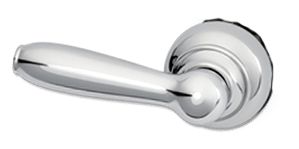
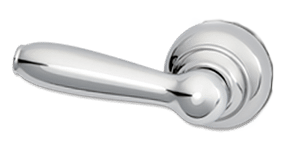
Joke toilet paper background. Cleaned up tHandle.png. Altered TpFooter grid. Deleted unused images.

Changed region(s): [[0.6622, 0.1074, 0.903, 0.4027], [0.8428, 0.5906, 0.9331, 0.7785], [0.903, 0.4027, 0.9331, 0.5101]]

diff --git a/src/pages/Home/Jokes.tsx b/src/pages/Home/Jokes.tsx
@@ -31,7 +31,7 @@ const flushTime: number = 1900; // milliseconds
 
 class Jokes extends React.Component<Props, Partial<JokesState>> {
 
-  private currentJoke: string = "Flush the toilet for a joke, if you dare";
+  private currentJoke: string[] = ["Flush the toilet for a joke, if you dare"];
   private badJokes: globalTypes.JokeList = allJokes;
 
   state: JokesState = {
@@ -47,8 +47,6 @@ class Jokes extends React.Component<Props, Partial<JokesState>> {
 
   flushHandler: () => void = () => {
     // enable animation setting up next joke
-    console.log("Flush pressed");
-    console.log(this.state.flush);
 
     // only allow a flush if animations not already underway 
     if ( this.state.flush === FlushState.NoFlush) {
@@ -59,12 +57,12 @@ class Jokes extends React.Component<Props, Partial<JokesState>> {
 
       // wait until animations done before accepting next flush
       setTimeout(() => {
-        this.currentJoke = this.getJoke();
+        this.currentJoke = this.getJoke().split('\n');
+        console.log(this.currentJoke);
 
         this.setState({
           flush: FlushState.NoFlush
         });
-        console.log("Flush released");
 
       }, flushTime);
     }
@@ -112,7 +110,13 @@ class Jokes extends React.Component<Props, Partial<JokesState>> {
                   styles.tpJoke + " " + styles.tpFlush
                   )}
                 >
-                  {this.currentJoke}
+                  {this.currentJoke.map((jokeLine,index) => {
+                    return (
+                      <div className={styles.jokeLine} key={"key_" + index}>
+                        {jokeLine}
+                      </div>
+                    )})
+                  }
                 </div>
               </div>
             </div>

diff --git a/src/pages/Home/Jokes.module.scss b/src/pages/Home/Jokes.module.scss
@@ -27,7 +27,7 @@ $jokeOffset: -16em ;
 @keyframes tpDispose {
   0% {transform: scale(1) rotate(0) translate(0,0) ; opacity: 1;}
   10% {transform: scale(1.05) rotate(0) translate(0,0) ; opacity: 1;}
-  30% {transform: scale(0.4) rotate(0) translate(0,0) ; opacity: 1;}
+  30% {transform: scale(0.4) rotate(20deg) translate(0,0) ; opacity: 1;}
 
   98% {transform: scale(0.1) rotate(270deg) translate(0,300px) ; opacity: 0.7;}
   100% {transform: scale(0) rotate(270deg) translate(0,300px) ; opacity: 0;}
@@ -78,9 +78,11 @@ $jokeOffset: -16em ;
   font-size: 2.5em;
   font-weight: bold;
   letter-spacing: 0.08rem;
+  cursor: context-menu;
+  outline: none;
 
   &:hover {
-    background-color: change-color( $tpLinkHoverBackground, $alpha:0.25 );
+    background-color: change-color( $tpLinkHoverBackground, $alpha:0.4 );
     border-radius: 20px;
   }
 
@@ -126,18 +128,28 @@ $jokeOffset: -16em ;
 }
 
 .tpJoke {
-  padding: 1em;
+  padding: 0.75em 1em 0.75em 1em;
   width: 60%;
   border-style: solid;
   border-radius: 5px;
   border-color: $tpJokesBorderColour;
   background-color: $tpJokesBackgroundColour ;
+  background-image: url("../../images/tpTexture1.jpg");
+  background-repeat: no-repeat;
+  background-size: cover;
   box-shadow: 
     4px 4px 5px $tpShadowColour;
   margin-top: 0.75em;
   margin-bottom: 0.75em;
   margin-left: auto;
   margin-right: auto;
+
+  color: $tpTextColour-d2;
+
+}
+
+.jokeLine {
+  padding: 0.25em 0 0.25em 0;
 }
 // Joke animation
 // Unroll
@@ -149,6 +161,7 @@ $jokeOffset: -16em ;
   animation-name: tpDispose;
   animation-duration: $flushTime ;
   animation-iteration-count: 1;
+  animation-timing-function: linear;
 }
 
 .tpUnroll {

diff --git a/src/components/TpFooter/TpFooter.tsx b/src/components/TpFooter/TpFooter.tsx
@@ -32,7 +32,17 @@ const TpFooter: React.FunctionComponent<{}> = () => {
       </div>
 
       <div className="row mt-2">
-        <div className="col-12 col-md-6">
+        <div className="col-12 col-md-4">
+
+          {/* <TpLink to="/About">
+            Click here to make a donation
+          </TpLink> */}
+          <TpLink to="/About">
+            Find out more about this website
+          </TpLink>
+        </div>
+
+        <div className="col-12 col-md-8">
           <p>
             Have the best toilet paper joke on the planet ? <br />
             Know something cool ? <br />
@@ -42,17 +52,7 @@ const TpFooter: React.FunctionComponent<{}> = () => {
           <TpLink to ="/Contribute">
             Send me some great stuff
           </TpLink>
-          <br />
-          <TpLink to="/About">
-            Find out more about this website
-          </TpLink>
-        </div>
-
-        <div className="col-12 col-md-6">
-            
-          {/* <TpLink to="/About">
-            Click here to make a donation
-          </TpLink> */}
+          
         </div>
 
       </div>

diff --git a/src/globals/_colours.scss b/src/globals/_colours.scss
@@ -28,7 +28,7 @@ $navMenuBackground: $covidBackground;
 
 /* short Jokes on a toilet roll */
 
-$tpJokesBackgroundColour:  #e4e7bc;
+$tpJokesBackgroundColour:  #bfbfbf;
 $tpJokesShadowColour: #313131; 
 $tpJokesBorderColour: scale-color($tpJokesBackgroundColour, $lightness: -25%);
 
@@ -79,3 +79,5 @@ $titleTextColour-l1: scale-color($titleTextColour, $lightness: +15%);
 $titleTextColour-l2: scale-color($titleTextColour, $lightness: +30%);
 $titleTextColour-l3: scale-color($titleTextColour, $lightness: +40%);
 
+/* Darker shades */
+$tpTextColour-d2: scale-color($tpTextColour, $lightness: -30%);
